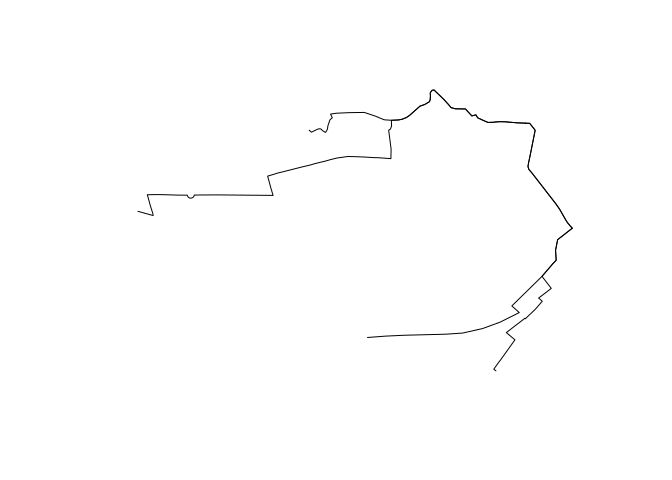
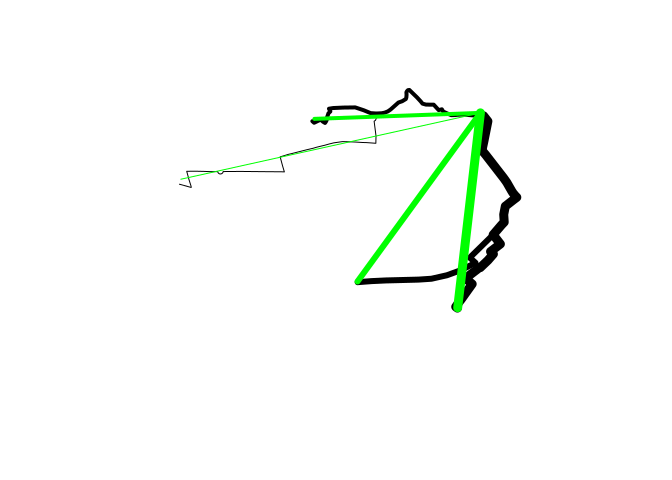
Update readme

diff --git a/README.md b/README.md
@@ -1,32 +1,74 @@
 
 <!-- README.md is generated from README.Rmd. Please edit that file -->
-[![Build Status](https://travis-ci.org/ropensci/stplanr.svg?branch=master)](https://travis-ci.org/ropensci/stplanr) [![rstudio mirror downloads](http://cranlogs.r-pkg.org/badges/stplanr)](https://github.com/metacran/cranlogs.app) [![](https://cranlogs.r-pkg.org/badges/grand-total/stplanr)](https://cran.r-project.org/package=stplanr) [![CRAN\_Status\_Badge](http://www.r-pkg.org/badges/version/stplanr)](https://cran.r-project.org/package=stplanr) [![lifecycle](https://img.shields.io/badge/lifecycle-maturing-blue.svg)](https://www.tidyverse.org/lifecycle/#maturing) [![](https://badges.ropensci.org/10_status.svg)](https://github.com/ropensci/onboarding/issues/10)
+
+[![Build
+Status](https://travis-ci.org/ropensci/stplanr.svg?branch=master)](https://travis-ci.org/ropensci/stplanr)
+[![rstudio mirror
+downloads](http://cranlogs.r-pkg.org/badges/stplanr)](https://github.com/metacran/cranlogs.app)
+[![](https://cranlogs.r-pkg.org/badges/grand-total/stplanr)](https://cran.r-project.org/package=stplanr)
+[![CRAN\_Status\_Badge](http://www.r-pkg.org/badges/version/stplanr)](https://cran.r-project.org/package=stplanr)
+[![lifecycle](https://img.shields.io/badge/lifecycle-maturing-blue.svg)](https://www.tidyverse.org/lifecycle/#maturing)
+[![](https://badges.ropensci.org/10_status.svg)](https://github.com/ropensci/onboarding/issues/10)
 
 **stplanr** is a package for sustainable transport planning with R.
 
-It provides functions for solving common problems in transport planning and modelling, such as how to best get from point A to point B. The overall aim is to provide a reproducible, transparent and accessible toolkit to help people better understand transport systems and inform policy, as outlined in a [paper](https://journal.r-project.org/archive/2018/RJ-2018-053/index.html) about the package, and the potential for open source software in transport planning in general, published in the [R Journal](https://journal.r-project.org/).
+It provides functions for solving common problems in transport planning
+and modelling, such as how to best get from point A to point B. The
+overall aim is to provide a reproducible, transparent and accessible
+toolkit to help people better understand transport systems and inform
+policy, as outlined in a
+[paper](https://journal.r-project.org/archive/2018/RJ-2018-053/index.html)
+about the package, and the potential for open source software in
+transport planning in general, published in the [R
+Journal](https://journal.r-project.org/).
 
-The initial work on the project was funded by the Department of Transport ([DfT](https://www.gov.uk/government/organisations/department-for-transport)) as part of the development of the Propensity to Cycle Tool (PCT), a web application to explore current travel patterns and cycling potential at zone, desire line, route and route network levels (see [www.pct.bike](http://www.pct.bike/) and click on a region to try it out). The basis of the methods underlying the PCT is origin-destination data, which are used to highlight where many short distance trips are being made, and estimate how many could switch to cycling. The results help identify where cycleways are most needed, an important component of sustainable transport planning infrastructure engineering and policy [design](https://www.icevirtuallibrary.com/doi/abs/10.1680/dfct.63495.001). See the package vignette (e.g. via `vignette("introducing-stplanr")`) or an [academic paper on the Propensity to Cycle Tool (PCT)](http://dx.doi.org/10.5198/jtlu.2016.862) for more information on how it can be used. This README provides some basics.
+The initial work on the project was funded by the Department of
+Transport
+([DfT](https://www.gov.uk/government/organisations/department-for-transport))
+as part of the development of the Propensity to Cycle Tool (PCT), a web
+application to explore current travel patterns and cycling potential at
+zone, desire line, route and route network levels (see
+[www.pct.bike](http://www.pct.bike/) and click on a region to try it
+out). The basis of the methods underlying the PCT is origin-destination
+data, which are used to highlight where many short distance trips are
+being made, and estimate how many could switch to cycling. The results
+help identify where cycleways are most needed, an important component of
+sustainable transport planning infrastructure engineering and policy
+[design](https://www.icevirtuallibrary.com/doi/abs/10.1680/dfct.63495.001).
+See the package vignette (e.g. via `vignette("introducing-stplanr")`) or
+an [academic paper on the Propensity to Cycle Tool
+(PCT)](http://dx.doi.org/10.5198/jtlu.2016.862) for more information on
+how it can be used. This README provides some basics.
 
-**stplanr** should be useful to researchers everywhere. The function `route_graphhopper()`, for example, works anywhere in the world using the [graphhopper](https://graphhopper.com/) routing API and `read_table_builder()` reads-in Australian data. We welcome contributions that make transport research easier worldwide.
+**stplanr** should be useful to researchers everywhere. The function
+`route_graphhopper()`, for example, works anywhere in the world using
+the [graphhopper](https://graphhopper.com/) routing API and
+`read_table_builder()` reads-in Australian data. We welcome
+contributions that make transport research easier worldwide.
 
-Key functions
--------------
+## Key functions
 
-Data frames representing flows between origins and destinations must be combined with geo-referenced zones or points to generate meaningful analyses and visualisations of 'flows' or origin-destination (OD) data. **stplanr** facilitates this with `od2line()`, which takes flow and geographical data as inputs and outputs spatial data. Some example data is provided in the package:
+Data frames representing flows between origins and destinations must be
+combined with geo-referenced zones or points to generate meaningful
+analyses and visualisations of ‘flows’ or origin-destination (OD) data.
+**stplanr** facilitates this with `od2line()`, which takes flow and
+geographical data as inputs and outputs spatial data. Some example data
+is provided in the package:
 
 ``` r
 library(stplanr)
 ```
 
-Let's take a look at this data:
+Let’s take a look at this data:
 
 ``` r
-flow[1:3, 1:3] # typical form of flow data
-#>        Area.of.residence Area.of.workplace All
-#> 920573         E02002361         E02002361 109
-#> 920575         E02002361         E02002363  38
-#> 920578         E02002361         E02002367  10
+od_data_sample[1:3, 1:3] # typical form of flow data
+#> # A tibble: 3 x 3
+#>   geo_code1 geo_code2   all
+#>   <chr>     <chr>     <dbl>
+#> 1 E02002361 E02002361   109
+#> 2 E02002361 E02002363    38
+#> 3 E02002361 E02002367    10
 cents_sf[1:3,] # points representing origins and destinations
 #> Simple feature collection with 3 features and 4 fields
 #> geometry type:  POINT
@@ -43,14 +85,23 @@ cents_sf[1:3,] # points representing origins and destinations
 These datasets can be combined as follows:
 
 ``` r
-travel_network <- od2line(flow = flow, zones = cents_sf)
-w <- flow$All / max(flow$All) *10
+travel_network <- od2line(flow = od_data_sample, zones = cents_sf)
+w <- flow$all / max(flow$all) *10
 plot(travel_network, lwd = w)
 ```
 
 <img src="man/figures/README-plot1-1.png" width="100%" />
 
-The package can also allocate flows to the road network, e.g. with [CycleStreets.net](https://www.cyclestreets.net/api/) and the OpenStreetMap Routing Machine ([OSRM](https://github.com/Project-OSRM/osrm-backend)) API interfaces. These are supported in `route_*()` functions such as `route_cyclestreets` and `route_osrm()`:
+`stplanr` has many functions for working with OD data. See the
+[`stplanr-od`](https://docs.ropensci.org/stplanr/articles/stplanr-od.html)
+vignette for details.
+
+The package can also allocate flows to the road network, e.g. with
+[CycleStreets.net](https://www.cyclestreets.net/api/) and the
+OpenStreetMap Routing Machine
+([OSRM](https://github.com/Project-OSRM/osrm-backend)) API interfaces.
+These are supported in `route_*()` functions such as
+`route_cyclestreets` and `route_osrm()`:
 
 Route functions take lat/lon inputs (results not calculated):
 
@@ -60,13 +111,14 @@ trip <- route_osrm(from = c(-1, 53), to = c(-1.1, 53))
 
 and place names, found using the Google Map API:
 
-We can replicate this call multiple times using `line2route`, in this case lines 2 to 5. First we'll create a small subset of the lines:
+We can replicate this call multiple times using `line2route`, in this
+case lines 2 to 5. First we’ll create a small subset of the lines:
 
 ``` r
-desire_lines <- travel_network[2:5,]
+desire_lines <- travel_network[2:6,]
 ```
 
-Next, we'll calculate the routes (not not evaluated):
+Next, we’ll calculate the routes (not not evaluated):
 
 ``` r
 routes <- line2route(desire_lines, route_fun = route_osrm)
@@ -75,41 +127,61 @@ routes <- line2route(desire_lines, route_fun = route_osrm)
 The resulting routes will look something like this:
 
 ``` r
-routes = routes_fast_sf[2:5, ]
-plot(routes$geometry)
+lwd <- desire_lines$foot
+routes <- routes_fast_sf[2:6, ]
+plot(routes$geometry, lwd = lwd)
+plot(desire_lines$geometry, col = "green", lwd = lwd, add = TRUE)
 ```
 
 <img src="man/figures/README-routes-1.png" width="100%" />
 
 For more examples, `example("line2route")`.
 
-`overline` is a function which takes a series of route-allocated lines, splits them into unique segments and aggregates the values of overlapping lines. This can represent where there will be most traffic on the transport system, as demonstrated in the following code chunk.
+`overline` is a function which takes a series of route-allocated lines,
+splits them into unique segments and aggregates the values of
+overlapping lines. This can represent where there will be most traffic
+on the transport system, as demonstrated in the following code chunk.
 
 ``` r
-routes$All <- desire_lines$All
-rnet <- overline2(routes, attrib = "All")
-#> 2019-05-10 11:42:58 constructing segments
-#> 2019-05-10 11:42:58 building geometry
-#> 2019-05-10 11:42:58 simplifying geometry
-#> 2019-05-10 11:42:58 aggregating flows
-#> 2019-05-10 11:42:58 rejoining segments into linestrings
+routes$foot <- desire_lines$foot
+rnet <- overline2(routes, attrib = "foot")
+#> 2019-07-29 21:11:32 constructing segments
+#> 2019-07-29 21:11:33 building geometry
+#> 2019-07-29 21:11:33 simplifying geometry
+#> 2019-07-29 21:11:33 aggregating flows
+#> 2019-07-29 21:11:33 rejoining segments into linestrings
 ```
 
-The route network can be visualised as follows:
+The resulting route network, with segment totals calculated from
+overlapping parts for the routes for walking, can be visualised as
+follows:
 
 ``` r
-library(leaflet)
-pal = leaflet::colorNumeric(palette = "YlGnBu", domain = rnet$All)
-leaflet(data = rnet) %>%
-  addProviderTiles(providers$OpenStreetMap.BlackAndWhite) %>%
-  addPolylines(weight = rnet$All / 3, color = ~pal(All), opacity = 0.9) %>% 
-  addLegend(pal = pal, values = ~All)
+plot(rnet["foot"], lwd = rnet$foot)
 ```
 
-<img src="man/figures/README-routes-leaf-1.png" width="100%" />
+<img src="man/figures/README-unnamed-chunk-6-1.png" width="100%" />
 
-Installation
-------------
+The above plot represents the number of people who walk along particular
+routes (assuming the routes represent real routes).
+
+<!-- (results not shown): -->
+
+## Policy and research applications
+
+The example results may not seem particularly revolutionary. At the city
+scale, however, this type of analysis can be used to inform sustainable
+transport policies, as described in papers [describing the Propensity to
+Cycle Tool](https://www.jtlu.org/index.php/jtlu/article/view/862/859)
+(PCT), and its [application to calculate cycling to school
+potential](https://www.sciencedirect.com/science/article/pii/S2214140518301257)
+across England. In essence, stplanr was designed to help answer research
+and policy questions of the type raised in those papers.
+
+There are many other research applications that the functions in
+`stplanr` can help solve, most of which have yet to be thought of.
+
+## Installation
 
 To install the stable version, use:
 
@@ -129,20 +201,16 @@ stplanr depends on rgdal, which can be tricky to install.
 
 ### Installing stplanr on Linux and Mac
 
-**splanr** depends on **rgdal** which can be installed on Ubuntu, for example, with:
+**stplanr** depends on **sf**. Installation instructions for Mac, Ubuntu
+and other Linux distros can be found here:
+<https://github.com/r-spatial/sf#installing>
 
-    sudo apt install r-cran-rgdal
+## Funtions, help and contributing
 
-To install `gdal` binaries on other distributions please see here: <http://trac.osgeo.org/gdal/wiki/DownloadingGdalBinaries>
-
-**stplanr** also depends on **sf**. Installation instructions for Mac, Ubuntu and other Linux distros can be found here: <https://github.com/r-spatial/sf#installing>
-
-Instructions to install `gdal` and `Quartz` are provided at <https://github.com/ropensci/geojsonio#install> and <https://www.xquartz.org/> respectively (Quartz is required for R - as described [here](https://cran.r-project.org/bin/macosx/)).
-
-Funtions, help and contributing
--------------------------------
-
-The current list of available functions can be seen on the package's website at [ropensci.github.io/stplanr/](https://ropensci.github.io/stplanr/), or with the following command:
+The current list of available functions can be seen on the package’s
+website at
+[ropensci.github.io/stplanr/](https://ropensci.github.io/stplanr/), or
+with the following command:
 
 ``` r
 lsf.str("package:stplanr", all = TRUE)
@@ -154,23 +222,37 @@ To get internal help on a specific function, use the standard way.
 ?od2line
 ```
 
-To contribute, report bugs or request features, see the [issue tracker](https://github.com/ropensci/stplanr/issues).
+To contribute, report bugs or request features, see the [issue
+tracker](https://github.com/ropensci/stplanr/issues).
 
-Further resources / tutorials
------------------------------
+## Further resources / tutorials
 
-Want to learn how to use open source software for reproducible sustainable transport planning work? Now is a great time to learn. Transport planning is a relatively new field of application in R. However, there are already some good resources on the topic, including (any further suggestions: welcome):
+Want to learn how to use open source software for reproducible
+sustainable transport planning work? Now is a great time to learn.
+Transport planning is a relatively new field of application in R.
+However, there are already some good resources on the topic, including
+(any further suggestions: welcome):
 
--   The Transport chapter of *Geocomputation with R*, which provides a broad introduction from a geographic data perspective: <https://geocompr.robinlovelace.net/transport.html>
--   The `stplanr` paper, which describes the context in which the package was developed: <https://journal.r-project.org/archive/2018/RJ-2018-053/index.html>
--   The `dodgr` vignette, which provides an introduction to routing in R: <https://cran.r-project.org/package=dodgr/vignettes/dodgr.html>
+  - The Transport chapter of *Geocomputation with R*, which provides a
+    broad introduction from a geographic data perspective:
+    <https://geocompr.robinlovelace.net/transport.html>
+  - The `stplanr` paper, which describes the context in which the
+    package was developed:
+    <https://journal.r-project.org/archive/2018/RJ-2018-053/index.html>
+    (please cite this if you use `stplanr` in your work)
+  - The `dodgr` vignette, which provides an introduction to routing in
+    R: <https://cran.r-project.org/package=dodgr/vignettes/dodgr.html>
 
-Meta
-----
+## Meta
 
--   Please report issues, feature requests and questions to the [github issue tracker](https://github.com/ropensci/stplanr/issues)
--   License: MIT
--   Get citation information for `stplanr` in R doing `citation(package = 'stplanr')`
--   This project is released with a [Contributor Code of Conduct](CONDUCT.md). By participating in this project you agree to abide by its terms.
+  - Please report issues, feature requests and questions to the [github
+    issue tracker](https://github.com/ropensci/stplanr/issues)
+  - License: MIT
+  - Get citation information for `stplanr` in R doing `citation(package
+    = 'stplanr')`
+  - This project is released with a [Contributor Code of
+    Conduct](CONDUCT.md). By participating in this project you agree to
+    abide by its
+terms.
 
 [![rofooter](http://ropensci.org/public_images/github_footer.png)](http://ropensci.org)
